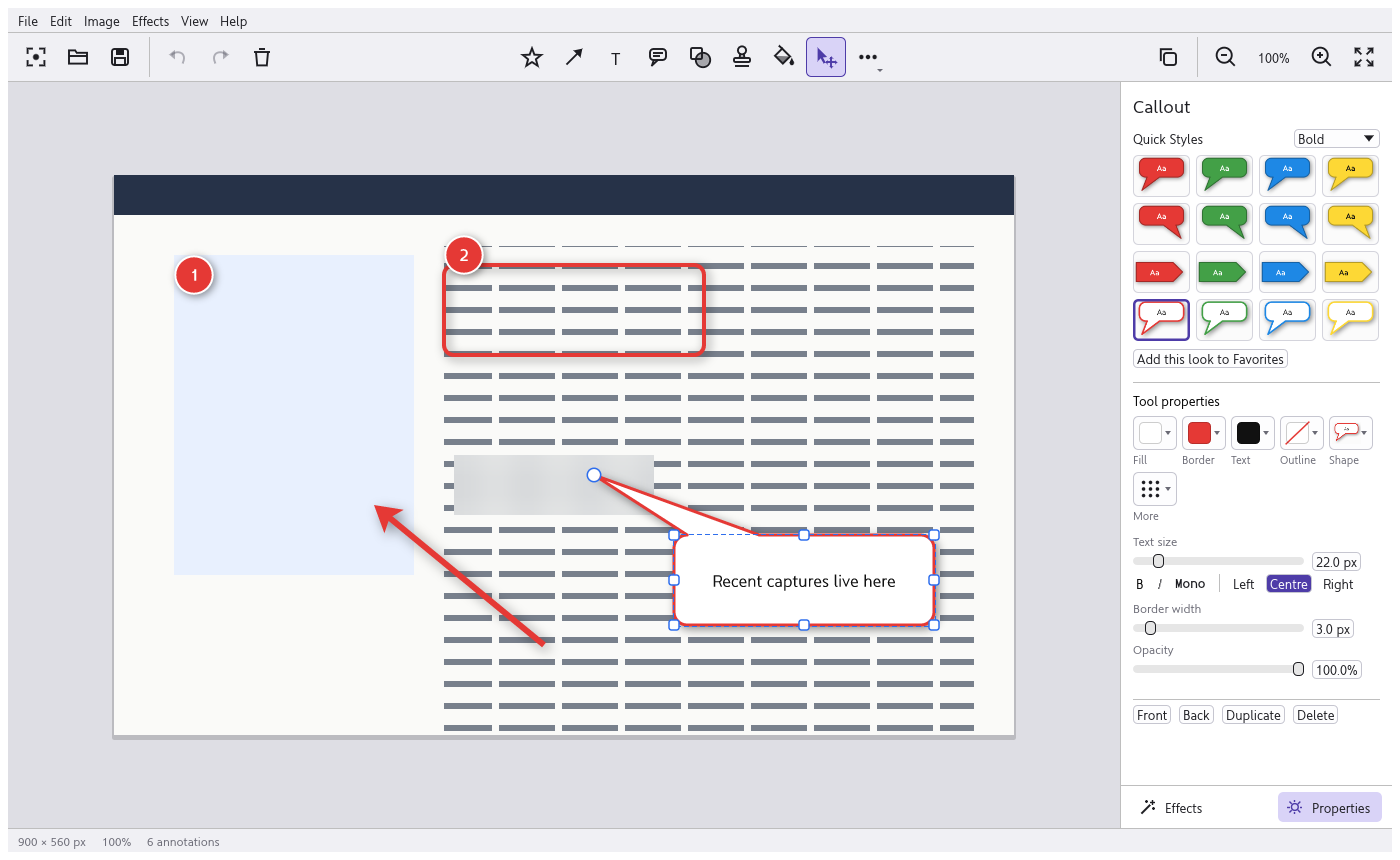
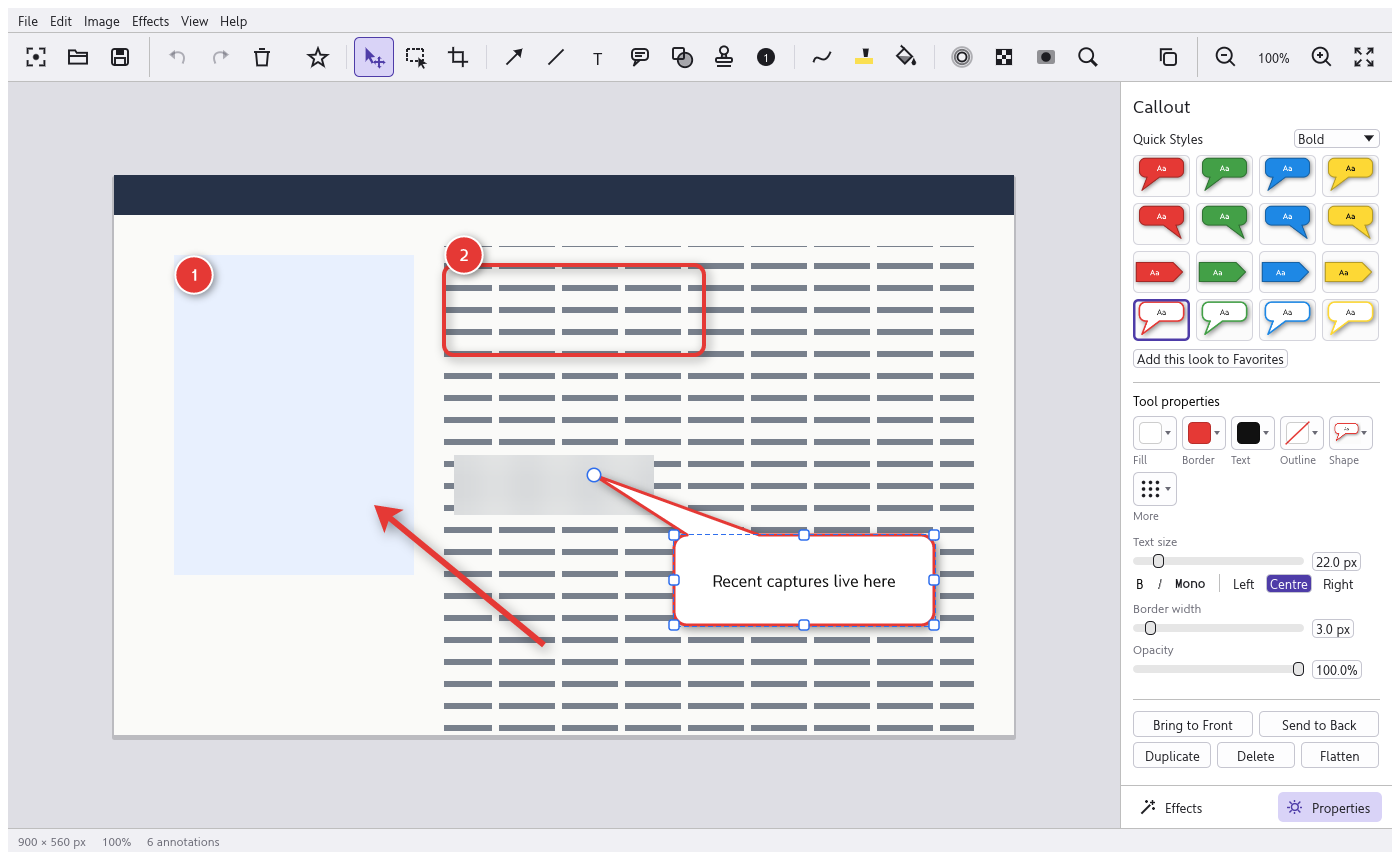
M0.7: the selection's buttons kept low, a sound's volume said, and the light look checked
- The selection's buttons at the foot of the picture editor's panel are two rows (Bring to Front, Send to Back; Duplicate, Delete, Flatten): a callout's panel still fits a window 860 points tall without scrolling.
- A sound track's volume is said beside its slider (100% is as it was recorded).
- Two tests draw the video editor, the welcome and the named tool bar in the light look.
- The README's picture of the editor is drawn again (`cargo run -p screengrabcraft-ui --example shots`).

diff --git a/crates/ui/src/props.rs b/crates/ui/src/props.rs
@@ -319,32 +319,36 @@ fn contents(ed: &mut Editor, ui: &mut Ui) {
     if first.is_some() {
         ui.add_space(14.0);
         ui.separator();
-        ui.add_space(4.0);
-        ui.label(egui::RichText::new("Arrange").strong());
-        ui.add_space(4.0);
+        ui.add_space(6.0);
         let ctx = ui.ctx().clone();
-        // Two to a row, each as wide as the other.
-        let half = ((ui.available_width() - 6.0) / 2.0).floor();
-        let even = |ui: &mut Ui, label: &str, tip: &str| ui.add(egui::Button::new(label).min_size(vec2(half, 28.0))).on_hover_text(tip).clicked();
-        egui::Grid::new("arrange").num_columns(2).spacing([6.0, 6.0]).show(ui, |ui| {
-            if even(ui, "Bring to Front", "In front of every other annotation") {
+        // What's done with the selection, in two rows of even buttons (kept low: the panel of a
+        // callout is already as tall as a small window).
+        let wide = ui.available_width();
+        let even = |ui: &mut Ui, n: f32, label: &str, tip: &str| {
+            let w = ((wide - (n - 1.0) * 6.0) / n).floor();
+            ui.add(egui::Button::new(label).min_size(vec2(w, 26.0))).on_hover_text(tip).clicked()
+        };
+        ui.horizontal(|ui| {
+            ui.spacing_mut().item_spacing.x = 6.0;
+            if even(ui, 2.0, "Bring to Front", "In front of every other annotation") {
                 ed.run(&ctx, "object.order", serde_json::json!({"to": "front"}));
             }
-            if even(ui, "Send to Back", "Behind every other annotation") {
+            if even(ui, 2.0, "Send to Back", "Behind every other annotation") {
                 ed.run(&ctx, "object.order", serde_json::json!({"to": "back"}));
             }
-            ui.end_row();
-            if even(ui, "Duplicate", "Another one like it, beside it (Ctrl+D)") {
+        });
+        ui.add_space(2.0);
+        ui.horizontal(|ui| {
+            ui.spacing_mut().item_spacing.x = 6.0;
+            if even(ui, 3.0, "Duplicate", "Another one like it, beside it (Ctrl+D)") {
                 ed.run(&ctx, "edit.duplicate", serde_json::json!({}));
             }
-            if even(ui, "Delete", "Take it off the picture (Del)") {
+            if even(ui, 3.0, "Delete", "Take it off the picture (Del)") {
                 ed.run(&ctx, "edit.delete", serde_json::json!({}));
             }
-            ui.end_row();
-            if even(ui, "Flatten", "Draw the selected annotations into the picture for good (Ctrl+Shift+F)") {
+            if even(ui, 3.0, "Flatten", "Draw the selected annotations into the picture for good (Ctrl+Shift+F)") {
                 ed.flatten(&ctx, false);
             }
-            ui.end_row();
         });
     }
 }

diff --git a/crates/ui/src/video.rs b/crates/ui/src/video.rs
@@ -257,6 +257,26 @@ pub struct VideoView {
     menu_us: Option<u64>,
 }
 
+/// A sound's volume in its header: a slider, and what it is set to beside it.
+fn volume_slider(ui: &mut Ui, rect: Rect, v: &mut f32) -> egui::Response {
+    let t = Tokens::get(ui.ctx());
+    ui.painter().text(
+        pos2(rect.max.x - 2.0, rect.center().y),
+        egui::Align2::RIGHT_CENTER,
+        format!("{:.0}%", *v),
+        egui::FontId::proportional(11.0),
+        t.muted,
+    );
+    let slider = Rect::from_min_max(rect.min, pos2(rect.max.x - 36.0, rect.max.y));
+    let was = *v;
+    ui.scope(|ui| {
+        ui.spacing_mut().slider_width = slider.width().max(40.0);
+        ui.put(slider, egui::Slider::new(v, 0.0..=200.0).show_value(false))
+    })
+    .inner
+    .on_hover_text(format!("Volume {was:.0}% (100% is as it was recorded)"))
+}
+
 /// What a header's switch turns on and off.
 #[derive(Clone, Copy, Debug, PartialEq, Eq)]
 pub(crate) enum Switch {
@@ -1669,7 +1689,7 @@ impl VideoView {
         }
         let vol = Rect::from_min_size(row.min + vec2(42.0, 22.0), vec2(row.width() - 52.0, 20.0));
         let mut v = track.volume * 100.0;
-        let r = ui.put(vol, egui::Slider::new(&mut v, 0.0..=200.0).show_value(false)).on_hover_text(format!("Volume {v:.0}%"));
+        let r = volume_slider(ui, vol, &mut v);
         if r.drag_started() {
             self.session.begin("Volume");
             self.volume_drag = true;
@@ -1722,7 +1742,7 @@ impl VideoView {
         }
         let vol = Rect::from_min_size(row.min + vec2(42.0, 22.0), vec2(row.width() - 52.0, 20.0));
         let mut v = layer.volume * 100.0;
-        let r = ui.put(vol, egui::Slider::new(&mut v, 0.0..=200.0).show_value(false)).on_hover_text(format!("Volume {v:.0}%"));
+        let r = volume_slider(ui, vol, &mut v);
         if r.drag_started() {
             self.session.begin("Volume");
             self.volume_drag = true;

diff --git a/crates/ui/src/video_tests.rs b/crates/ui/src/video_tests.rs
@@ -1501,3 +1501,37 @@ fn an_item_dragged_near_the_middle_of_the_picture_is_caught_there() {
     let away = h.state().video.as_ref().unwrap().chosen_on_screen().unwrap();
     assert!((away.center().x - pic.center().x - 60.0).abs() < 6.0 && (away.center().y - pic.center().y - 40.0).abs() < 6.0, "{away:?}");
 }
+
+#[test]
+fn the_video_editor_is_readable_in_the_light_look() {
+    let settings = EditorSettings { theme: screengrabcraft_model::Theme::Light, ..EditorSettings::default() };
+    let mut ed = Editor::new(Box::new(MediaHost::default()), settings);
+    let path = Some("C:/Captures/Production.sgvideo".to_string());
+    ed.open_file(&egui::Context::default(), OpenedFile { name: "Production.sgvideo".into(), path, bytes: recording() });
+    let mut h = Harness::builder().with_size(egui::vec2(1600.0, 900.0)).build_ui_state(
+        |ui, ed: &mut Editor| {
+            let ctx = ui.ctx().clone();
+            ed.logic(&ctx);
+            ed.ui(ui);
+        },
+        ed,
+    );
+    h.run_steps(3);
+    {
+        let ctx = egui::Context::default();
+        let ed = h.state_mut();
+        let mut v = ed.video.take().unwrap();
+        v.playhead = 2_000_000;
+        v.drop_on_timeline(ed, &ctx, &crate::video::LibDrop::Template("news-name"), None, 0);
+        ed.video = Some(v);
+    }
+    // A track switched off, to see its switch.
+    h.run_steps(3);
+    h.query_all_by_label("Show").nth(2).unwrap().click();
+    h.run_steps(3);
+    assert!(!crate::theme::Tokens::get(&h.ctx).dark, "the light look is the one drawn");
+    for label in ["Text", "Look", "Position", "Animation", "Entrance", "Exit"] {
+        assert!(h.query_all_by_label(label).next().is_some(), "{label}");
+    }
+    shot(&mut h, "video-editor-light");
+}

diff --git a/crates/ui/src/tests.rs b/crates/ui/src/tests.rs
@@ -2380,3 +2380,23 @@ fn the_welcome_goes_when_something_is_opened_or_drawn_and_offers_only_what_the_h
     h.run_steps(3);
     assert!(h.query_by_label("Paste from the Clipboard").is_none());
 }
+
+#[test]
+fn the_welcome_and_the_named_tool_bar_are_readable_in_the_light_look() {
+    let asked = std::sync::Arc::new(std::sync::Mutex::new(Vec::new()));
+    let settings = EditorSettings { theme: screengrabcraft_model::Theme::Light, ..EditorSettings::default() };
+    let mut ed = Editor::new(Box::new(CaptureHost(asked)), settings);
+    ed.offer_welcome();
+    let mut h = Harness::builder().with_size(egui::vec2(1600.0, 900.0)).build_ui_state(
+        |ui, ed: &mut Editor| {
+            let ctx = ui.ctx().clone();
+            ed.logic(&ctx);
+            ed.ui(ui);
+        },
+        ed,
+    );
+    h.run_steps(4);
+    assert!(!crate::theme::Tokens::get(&h.ctx).dark, "the light look is the one drawn");
+    h.get_by_label("Capture an Area");
+    crate::quick_tests::shot(&mut h, "welcome-light");
+}
